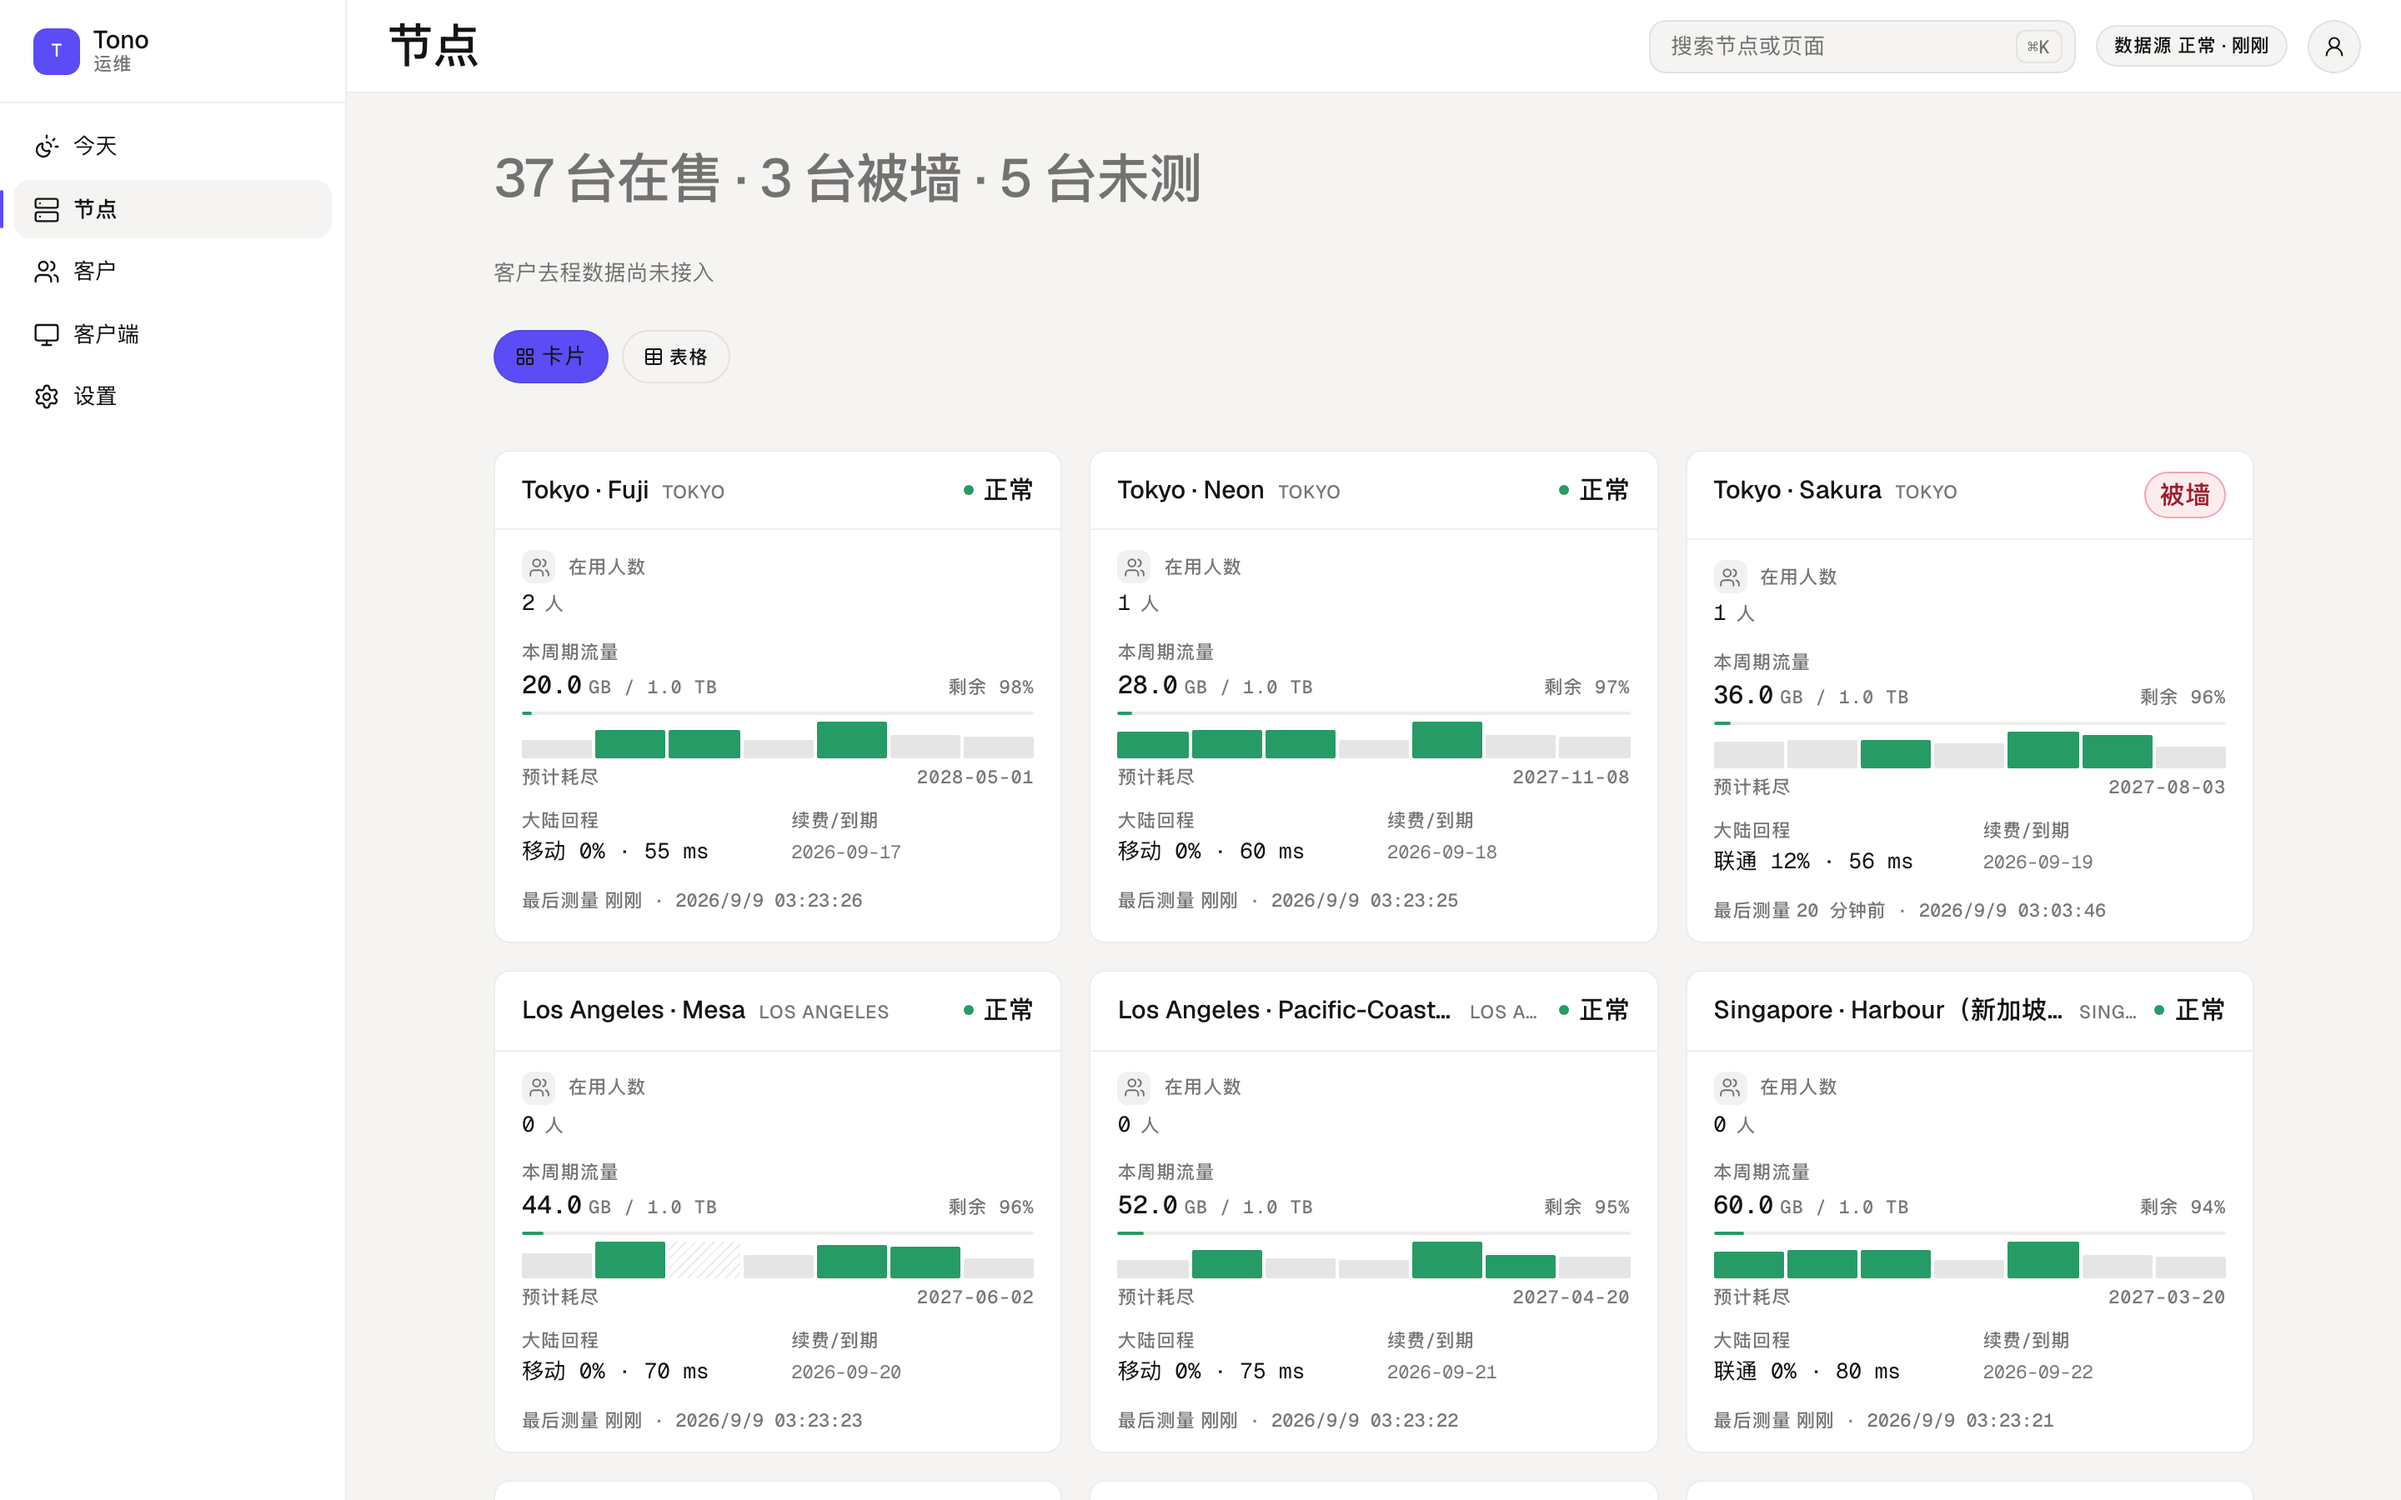
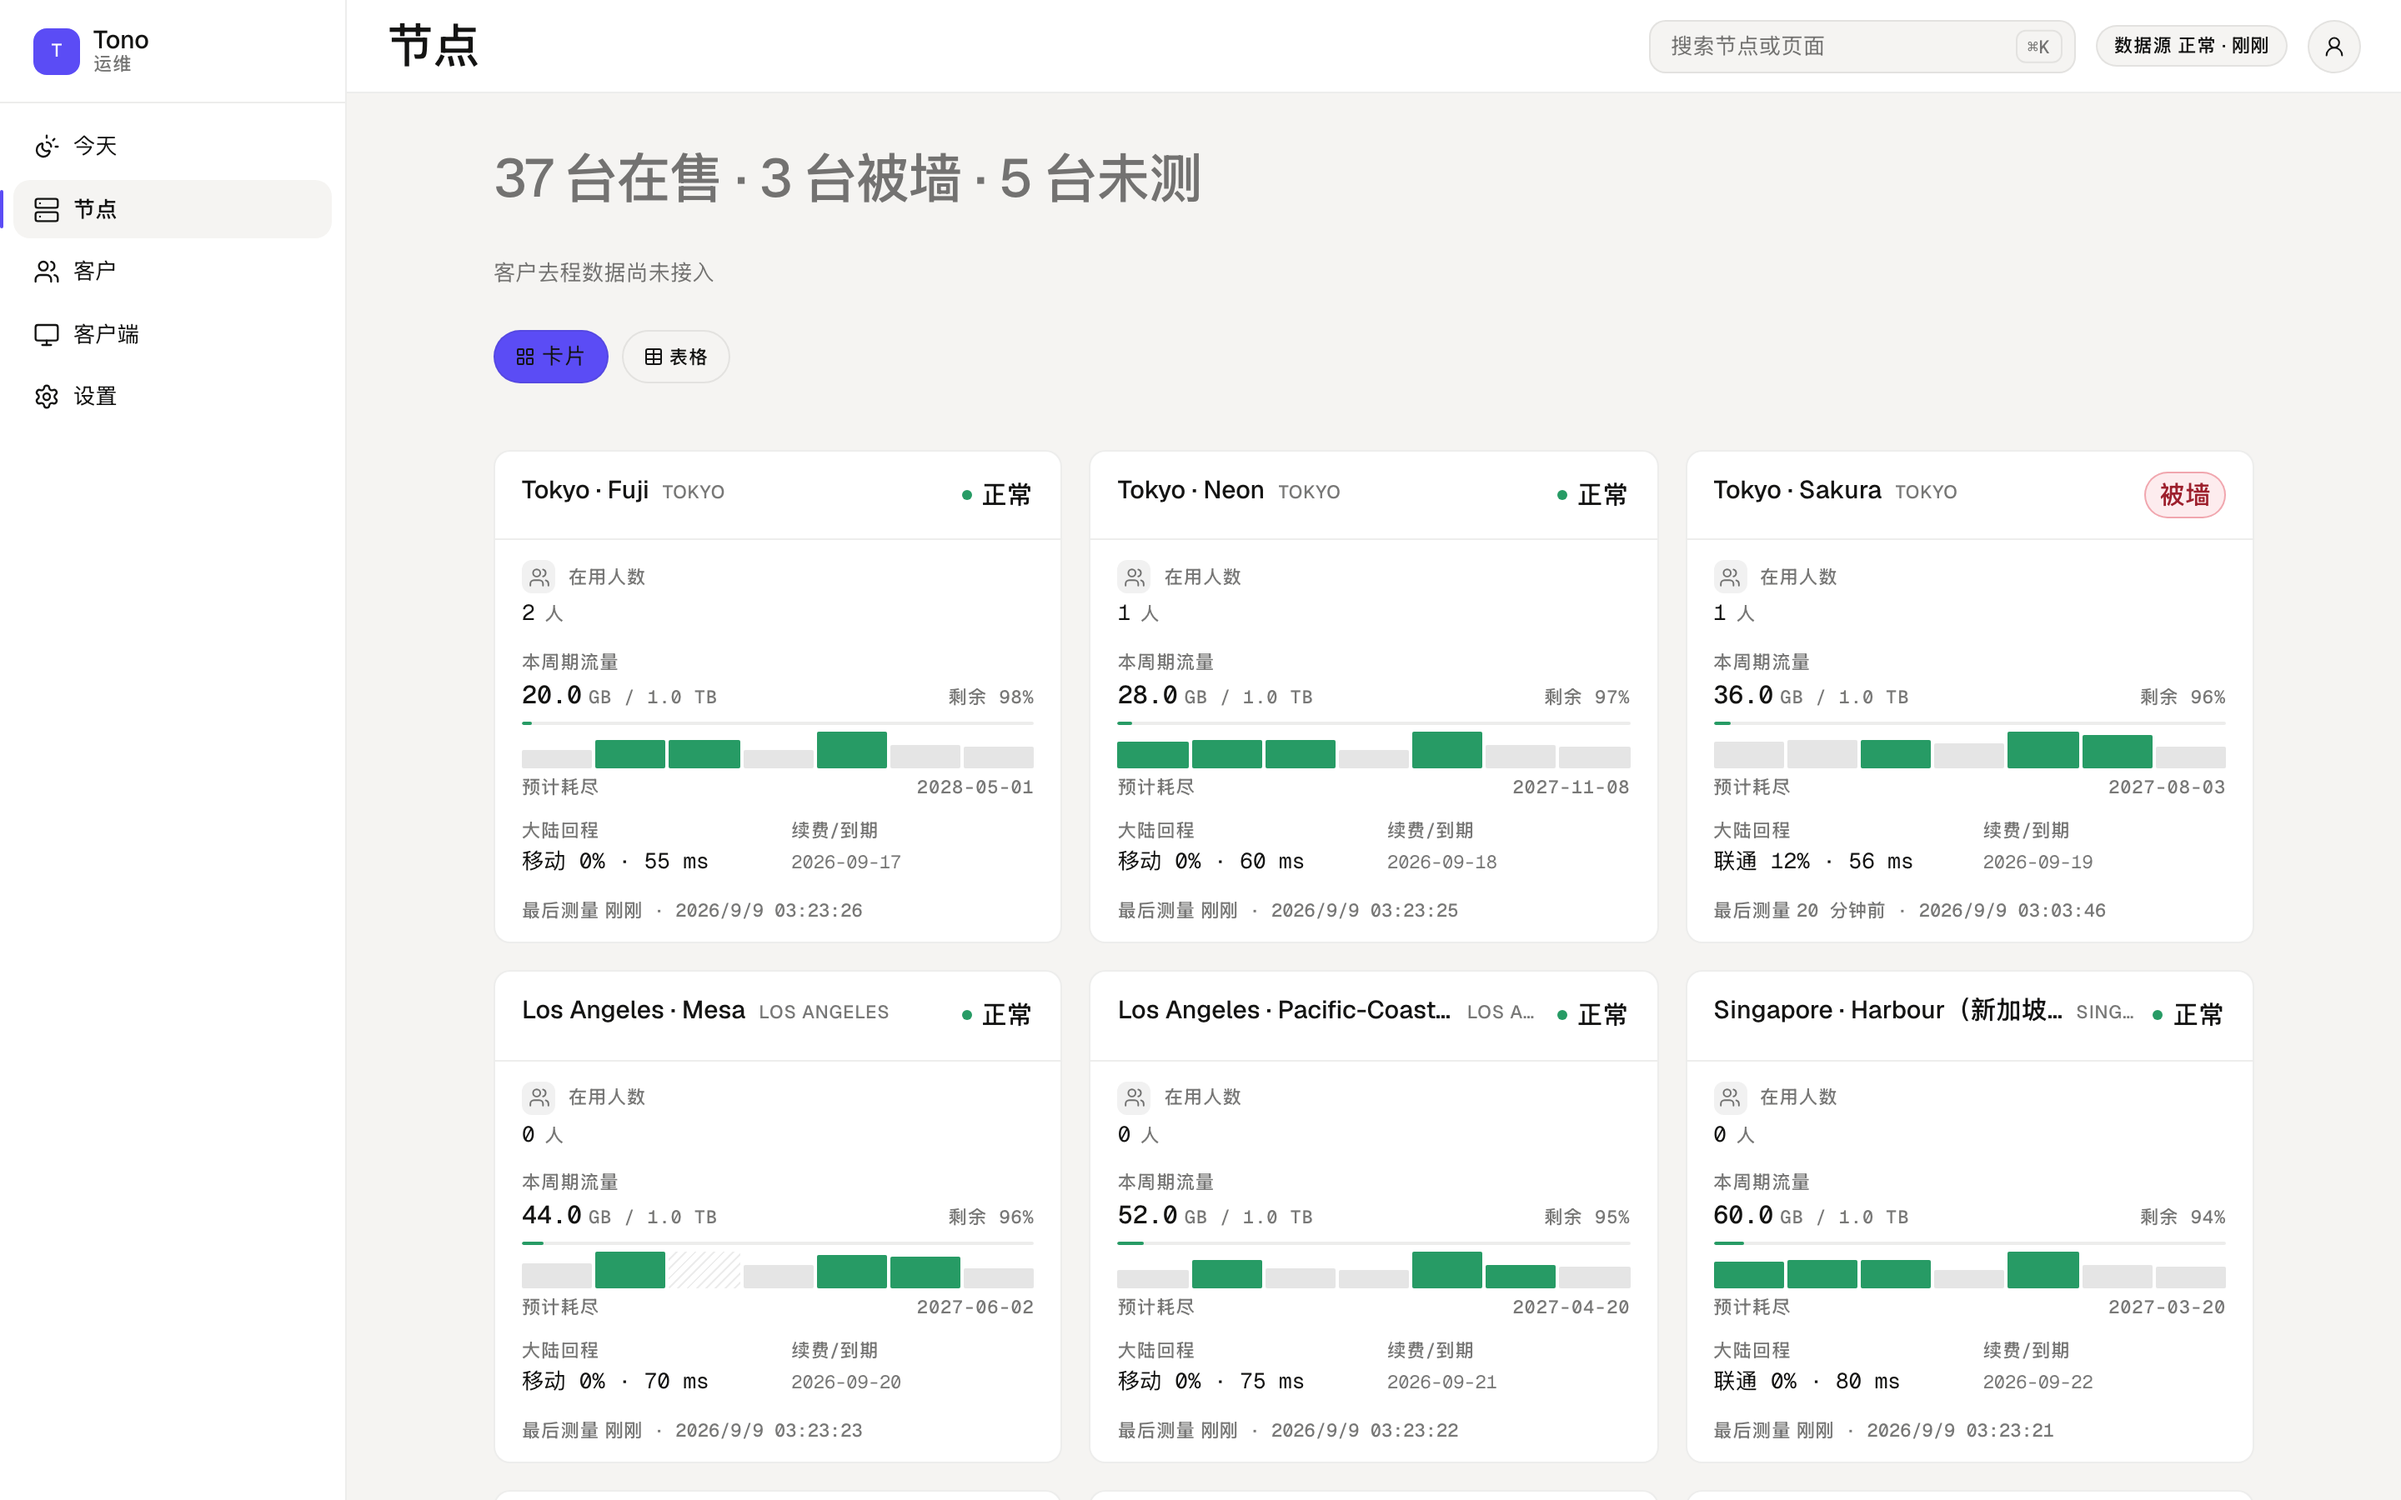
ops2: calm status words keep the pill's box; node timeline names everyone
A 被墙 pill sat a few px taller than the dot beside 正常, so one card in a
row pushed its cells down. The dot variant now carries the same padding
and a transparent border. The node page's timeline looks the shell's
customer list up after the current occupants, so a person who has since
left the node is still named rather than shown as an id.

Claude-Session: https://claude.ai/code/session_01MxNERtbNADnXgvBi3tgsbA

diff --git a/services/ops-console/src/pages/NodeDetail.tsx b/services/ops-console/src/pages/NodeDetail.tsx
@@ -1,6 +1,7 @@
 import { ArrowLeft } from 'lucide-react';
 import { Empty } from '@/components/ops/Empty';
 import { copy } from '@/copy/copy';
+import type { CustomerSummaryDto } from '@contract';
 import { nodeApi } from '@/lib/api-node';
 import { closeNodePage } from '@/lib/hash-route';
 import { usePrivacy } from '@/lib/privacy';
@@ -27,7 +28,11 @@ import { NodePaths } from './node/Paths';
  * allowed to fail on their own. A jobs table that could not load must not take
  * the quota gauge down with it.
  */
-export default function NodeDetailPage({ name }: { name: string }) {
+export default function NodeDetailPage({ name, customers }: {
+  name: string;
+  /** The shell's list, so a person who left this node is still named on its timeline. */
+  customers: readonly CustomerSummaryDto[];
+}) {
   const privacy = usePrivacy();
   const detail = useResource(name, (signal) => nodeApi.detail(name, signal));
   const connections = useResource(name, (signal) => nodeApi.connections(name, signal));
@@ -66,7 +71,8 @@ export default function NodeDetailPage({ name }: { name: string }) {
         emptyMessage={copy.nodeNoConnections}
         events={connections.status === 'ready' ? connections.data.items : []}
         who={(userId) => {
-          const hit = node.occupancy.value.find((row) => row.userId === userId);
+          const hit = node.occupancy.value.find((row) => row.userId === userId)
+            ?? customers.find((row) => row.userId === userId);
           return hit ? privacy.email(hit.email) : null;
         }}
         state={connections.status}

diff --git a/services/ops-console/src/components/ops/StatusWord.tsx b/services/ops-console/src/components/ops/StatusWord.tsx
@@ -71,7 +71,9 @@ export function StatusWord({
     return (
       <span
         title={reason || undefined}
-        className={cn('inline-flex items-center gap-1.5', `tone-${tone}`, type, className)}
+        // Same vertical box as the pill (padding plus a transparent border),
+        // so a blocked card in a row of healthy ones does not stand a few px taller.
+        className={cn('inline-flex items-center gap-1.5 border border-transparent py-0.5', `tone-${tone}`, type, className)}
       >
         <span
           aria-hidden

diff --git a/services/ops-console/src/app/App.tsx b/services/ops-console/src/app/App.tsx
@@ -64,7 +64,7 @@ export function App() {
       <Suspense fallback={<div className="page-wrap"><Empty message={copy.loading} /></div>}>
         {route.page === 'nodes' ? (
           route.nodeName
-            ? <NodeDetailPage name={route.nodeName} />
+            ? <NodeDetailPage name={route.nodeName} customers={people} />
             : <NodesPage fleet={fleet} selected={route.node} />
         )
           : route.page === 'customers' ? (
